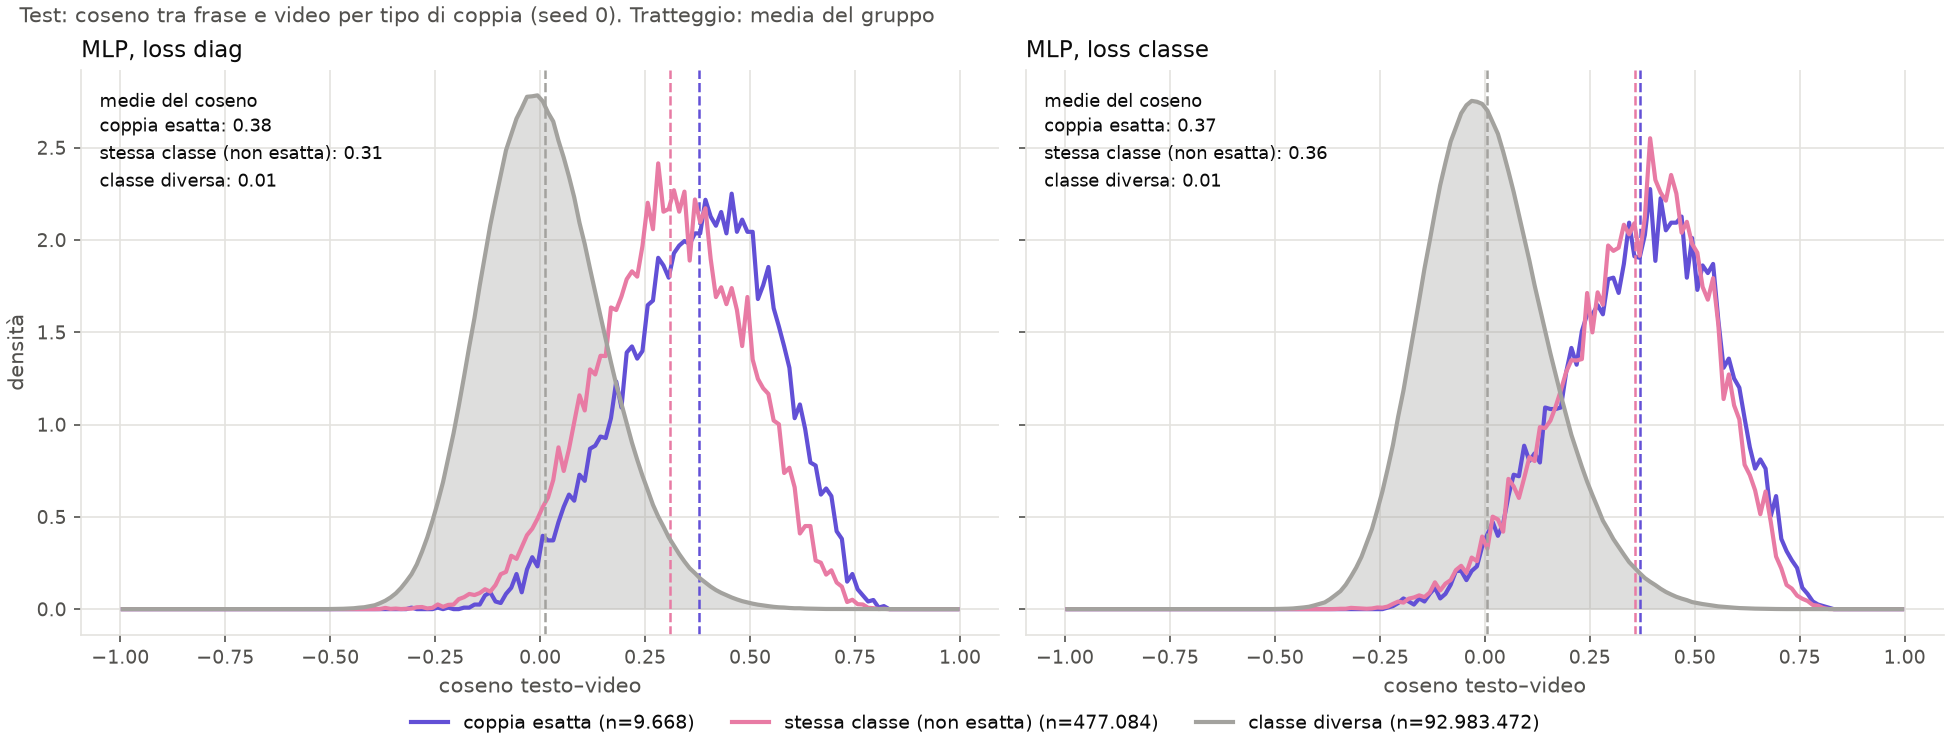
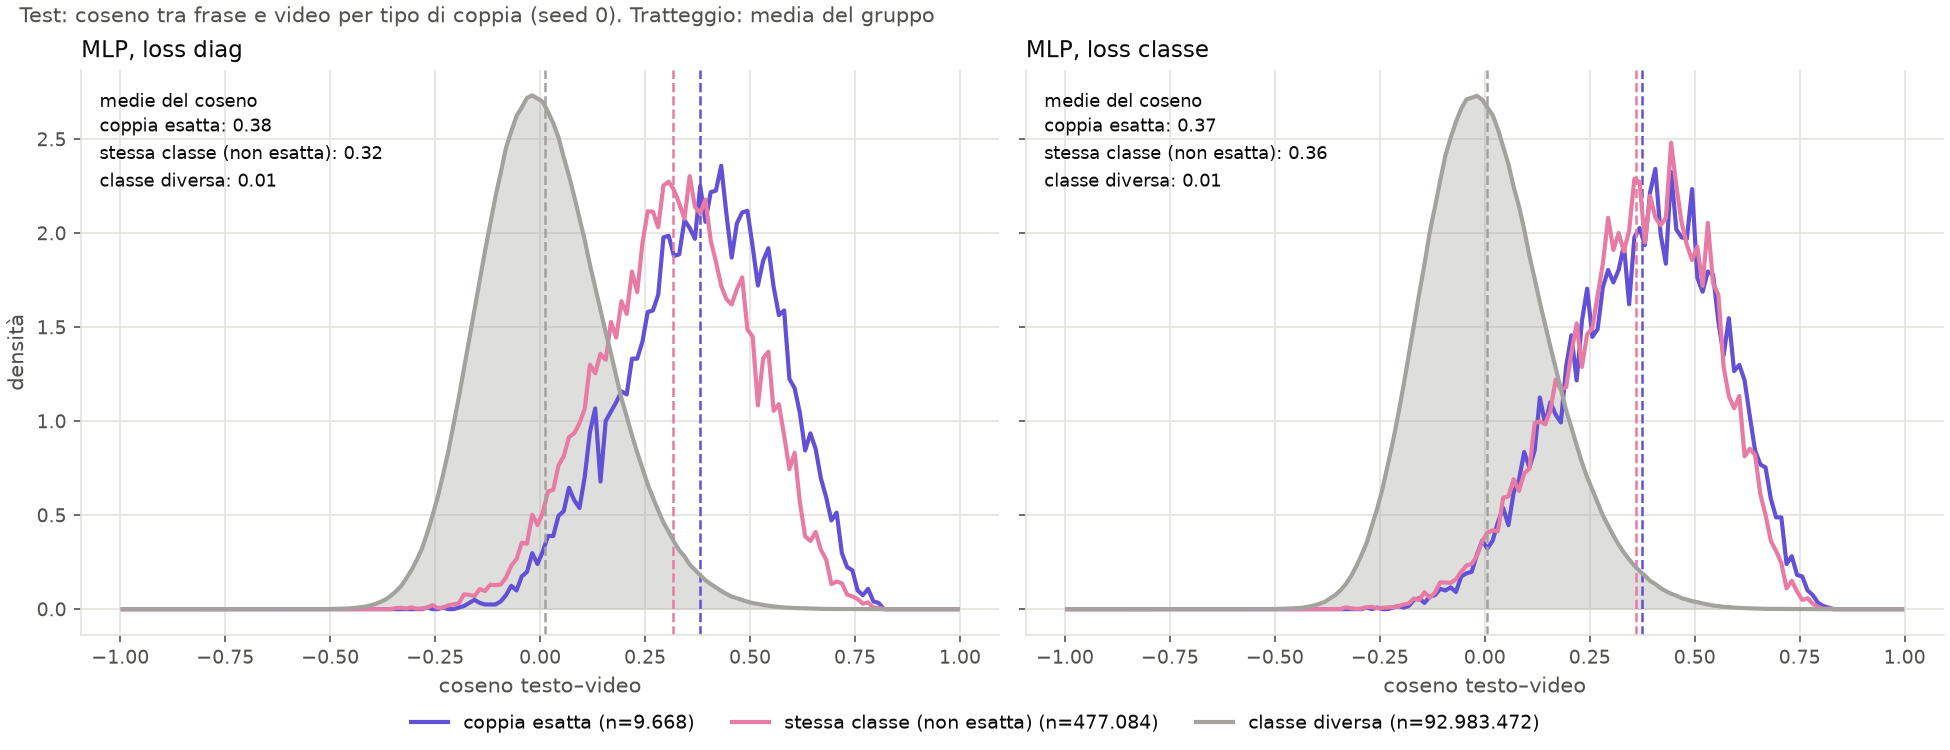
test: plot of some metrics on test set

diff --git a/src/evaluation/p6_figures.py b/src/evaluation/p6_figures.py
@@ -1,61 +1,83 @@
 """Figure della valutazione finale sul test (P6, passo 6 di docs/roadmap_p6_test.md).
 
 Figure solo descrittive: non ne segue nessuna scelta. Seed fissati prima del test (D4):
-MLP seed 0, baseline seed 42 (il primo dei suoi 10).
+MLP seed 0, baseline seed 42 (il primo dei suoi 10). Modelli e colori uguali in tutte le figure:
+baseline casuale ("prima del training"), ridge, MLP diag, MLP classe ("dopo").
 
 1. figures/p6_recall_k.png: curva R@K al variare di K (da 1 a N, asse logaritmico), due pannelli
    (esatto, classe). R@K = % di query con il primo video giusto entro i primi K: a K = 1, 5, 10 la
-   curva vale le R@1/5/10 della tabella. Baseline ("prima del training"), ridge, MLP diag e MLP
-   classe ("dopo"). Legge i ranghi gia' salvati in experiments/final/final_test_ranks.npz.
+   curva vale le R@1/5/10 della tabella. Legge i ranghi salvati in final_test_ranks.npz.
 
-2. figures/p6_coseni.png: distribuzione del coseno testo-video su tutte le coppie del test, in tre
-   gruppi: coppia esatta, stessa classe (stesso verbo e nome, clip diversa: include anche le frasi
-   identiche), classe diversa. Due pannelli, MLP diag e MLP classe. Istogrammi normalizzati
-   (densita'), perche' i gruppi hanno dimensioni molto diverse. Le similarita' non sono salvate
-   (circa 93 milioni per modello): si ricalcolano dai checkpoint con mlp_sim di evaluate_test.py.
+2. figures/p6_risultati.png: la tabella finale come barre. Pannelli esatto e classe; per R@1, R@5
+   e R@10 una barra per modello, con la dev. std sui seed come barra di errore (baseline 10 seed,
+   MLP 3; il ridge non ha seed). Legge final_test.csv.
+
+3. figures/p6_zero_shot.png: R@10 su tutte le query del test e sulle query con combinazione
+   verbo+nome mai vista nel train (D3, metrica zero-shot principale). Pannelli esatto e classe,
+   barre e barre di errore come sopra. Legge final_test.csv (i nomi mai visti, 24 query, restano
+   solo in tabella: troppo pochi per una barra affidabile).
+
+4. figures/p6_matrice_similarita.png: matrice frasi x video "stile CLIP" su 30 clip del test,
+   ordinate per classe (6 classi verbo+nome x 5 clip). Righe = frasi, colonne = i video delle
+   stesse clip nello stesso ordine: la diagonale (bordata) e' la coppia esatta, i quadrati lungo la
+   diagonale le coppie della stessa classe. In ogni cella la probabilita' che la frase scelga quel
+   video tra i 30: softmax della riga dei coseni con tau = 0.07, la tau fissa dei modelli finali,
+   cioe' la stessa distribuzione che la loss InfoNCE ottimizza. Il coseno grezzo non basta: le
+   differenze tra coppia esatta e stessa classe sono piccole in valore assoluto, ma decidono il
+   rango. Due pannelli, MLP diag e MLP classe (seed 0), stessa scala. Mostra il trade-off della
+   loss: diag concentra la probabilita' sulla diagonale, classe la distribuisce nel blocco.
+   Scelta delle clip fissata prima del test e indipendente dai risultati (solo metadati, seed 0):
+   classi con almeno 5 frasi diverse; 6 classi a caso; in ognuna 5 frasi diverse a caso, una
+   clip per frase (frasi diverse: frasi identiche hanno lo stesso embedding e la diagonale non si
+   distinguerebbe dal blocco per costruzione). Le similarita' si ricalcolano dai checkpoint con
+   mlp_sim di evaluate_test.py.
 
 Uso: python src/evaluation/p6_figures.py
 """
+import csv
 import sys
 from pathlib import Path
 
 import numpy as np
+from matplotlib.colors import LinearSegmentedColormap
 
 ROOT = Path(__file__).resolve().parents[2]
 sys.path.insert(0, str(ROOT / "src"))
 # pylint: disable=wrong-import-position
-from evaluation.evaluate_test import ENCODER, OUT_RANKS, load_manifest, mlp_sim  # noqa: E402
-from evaluation.metrics import class_relevance  # noqa: E402
+from evaluation.evaluate_test import (  # noqa: E402
+    ENCODER, OUT as RESULTS, OUT_RANKS, load_manifest, mlp_sim)
 from evaluation.plot_training import GRID, INK, INK_MUTED, plt  # noqa: E402
 from utils.features import load_pair  # noqa: E402
 
 FIG_DIR = ROOT / "figures"
 MLP_SEED, BASELINE_SEED = 0, 42
 KS = (1, 5, 10)
+# matrice di similarita': quante classi, quante clip per classe, seed della scelta
+MATRIX_CLASSES, MATRIX_PER_CLASS, MATRIX_SEED = 6, 5, 0
+TAU = 0.07          # tau fissa dei modelli finali (manifest: fixed_tau), per la softmax di riga
 
-# figura 1: un colore per modello, slot 1-3 della palette di riferimento (validata);
-# la baseline e' un riferimento, quindi grigio tratteggiato
-MODELS = [  # (chiave nel file dei ranghi, etichetta, colore, stile)
-    (f"baseline_s{BASELINE_SEED}", "baseline casuale (prima del training)", INK_MUTED, "--"),
-    ("ridge", "ridge lineare (λ=1000)", "#1baf7a", "-"),
-    (f"mlp_diag_s{MLP_SEED}", "MLP, loss diag", "#eb6834", "-"),
-    (f"mlp_classe_s{MLP_SEED}", "MLP, loss classe (finale)", "#2a78d6", "-"),
+# un colore per modello, slot 1-3 della palette di riferimento (validata);
+# la baseline e' un riferimento, quindi grigio (tratteggiato nelle curve)
+MODELS = [  # (chiave nel file dei ranghi, modello in final_test.csv, etichetta, colore, stile)
+    (f"baseline_s{BASELINE_SEED}", "baseline", "baseline casuale (prima del training)",
+     INK_MUTED, "--"),
+    ("ridge", "ridge", "ridge lineare (λ=1000)", "#1baf7a", "-"),
+    (f"mlp_diag_s{MLP_SEED}", "mlp_diag", "MLP, loss diag", "#eb6834", "-"),
+    (f"mlp_classe_s{MLP_SEED}", "mlp_classe", "MLP, loss classe (finale)", "#2a78d6", "-"),
 ]
-# figura 2: tre gruppi di coppie, tinte diverse da quelle dei modelli della figura 1
-GROUPS = [  # (nome, colore)
-    ("coppia esatta", "#6250d6"),
-    ("stessa classe (non esatta)", "#e87ba4"),
-    ("classe diversa", "#a3a29e"),
-]
-BINS = np.linspace(-1, 1, 161)
+# scala sequenziale blu della palette di riferimento (step 100 -> 700), per la matrice;
+# parte quasi dal bianco: probabilita' ~0 si confonde con lo sfondo
+BLUES = LinearSegmentedColormap.from_list(
+    "blues", ["#f7fafe", "#cde2fb", "#9ec5f4", "#6da7ec", "#3987e5", "#256abf", "#184f95",
+              "#0d366b"])
 
 
-def style(ax, title, xlabel, ylabel):
+def style(ax, title, xlabel, ylabel, grid_axis="both"):
     """Assi e griglia discreti, testo in inchiostro neutro (come plot_training.py)."""
     ax.set_title(title, loc="left", fontsize=11, color=INK)
     ax.set_xlabel(xlabel, color=INK_MUTED)
     ax.set_ylabel(ylabel, color=INK_MUTED)
-    ax.grid(color=GRID, linewidth=0.8)
+    ax.grid(axis=grid_axis, color=GRID, linewidth=0.8)
     ax.set_axisbelow(True)
     for side in ("top", "right"):
         ax.spines[side].set_visible(False)
@@ -76,7 +98,7 @@ def plot_recall_k(data, out):
     for ax, tag in zip(axes, ("esatto", "classe")):
         for k in KS:                                        # i tagli della tabella
             ax.axvline(k, color=GRID, linewidth=1.2, zorder=0)
-        for key, label, color, ls in MODELS:
+        for key, _, label, color, ls in MODELS:
             curve = recall_curve(data[f"{key}_{tag}"])
             k_axis = np.arange(1, len(curve) + 1)
             ax.plot(k_axis, curve, color=color, linestyle=ls, linewidth=2,
@@ -101,64 +123,182 @@ def plot_recall_k(data, out):
     plt.close(fig)
 
 
-def cosine_groups(sim, same_class):
-    """Coseni delle coppie divise nei tre gruppi: esatta, stessa classe non esatta, diversa."""
-    exact = np.eye(len(sim), dtype=bool)
-    return {"coppia esatta": sim[exact],
-            "stessa classe (non esatta)": sim[same_class & ~exact],
-            "classe diversa": sim[~same_class]}
+def read_results(path):
+    """Righe di final_test.csv per modello: {modello: (valori, dev. std o None)}.
+
+    Baseline e MLP: riga "media" e riga "std" sui seed; ridge: la sua unica riga.
+    """
+    with open(path, newline="", encoding="utf-8") as f:
+        rows = list(csv.DictReader(f))
+
+    def numbers(row):
+        return {k: float(v) for k, v in row.items()
+                if k not in ("modello", "seed", "dettagli") and v != ""}
+
+    out = {}
+    for _, model, *_ in MODELS:
+        mine = {r["seed"]: r for r in rows if r["modello"] == model}
+        if "media" in mine:
+            out[model] = (numbers(mine["media"]), numbers(mine["std"]))
+        else:
+            out[model] = (numbers(next(iter(mine.values()))), None)
+    return out
 
 
-def plot_cosines(groups_by_model, out):
-    """Figura 2: densita' del coseno per gruppo di coppie, un pannello per modello."""
-    fig, axes = plt.subplots(1, len(groups_by_model), figsize=(13, 5.0), sharex=True,
-                             sharey=True, constrained_layout=True)
-    for ax, (title, groups) in zip(axes, groups_by_model.items()):
-        means = []
-        for name, color in GROUPS:
-            values = groups[name]
-            density, edges = np.histogram(values, bins=BINS, density=True)
-            centers = (edges[:-1] + edges[1:]) / 2
-            if name == "classe diversa":                    # lo sfondo: area grigia
-                ax.fill_between(centers, density, color=color, alpha=0.35, linewidth=0)
-            n_pairs = f"{len(values):,}".replace(",", ".")
-            ax.plot(centers, density, color=color, linewidth=2, label=f"{name} (n={n_pairs})")
-            ax.axvline(values.mean(), color=color, linewidth=1.2, linestyle="--")
-            means.append(f"{name}: {values.mean():.2f}")
-        # le medie (diverse nei due pannelli) in alto a sinistra, dove non ci sono curve
-        ax.text(0.02, 0.97, "medie del coseno\n" + "\n".join(means), transform=ax.transAxes,
-                va="top", fontsize=8.5, color=INK, linespacing=1.5)
-        style(ax, title, "coseno testo–video", "densità" if ax is axes[0] else "")
-    fig.legend(*axes[0].get_legend_handles_labels(), loc="outside lower center", ncol=3,
+def bar_panel(ax, results, groups, pad):
+    """Barre raggruppate: un gruppo per colonna di groups, una barra per modello.
+
+    groups: [(etichetta del gruppo, colonna di final_test.csv)]. Valore scritto sopra ogni barra,
+    a distanza pad (in unita' dell'asse y) dalla cima della barra di errore.
+    """
+    width = 0.19
+    offsets = (np.arange(len(MODELS)) - (len(MODELS) - 1) / 2) * (width + 0.02)
+    x = np.arange(len(groups))
+    for (_, model, label, color, _), off in zip(MODELS, offsets):
+        values, std = results[model]
+        heights = [values[col] for _, col in groups]
+        errors = [std[col] for _, col in groups] if std else None
+        ax.bar(x + off, heights, width, color=color, label=label, zorder=2)
+        if errors:
+            ax.errorbar(x + off, heights, yerr=errors, fmt="none", ecolor=INK,
+                        elinewidth=1, capsize=3, zorder=3)
+        for xi, h, e in zip(x + off, heights, errors or [0] * len(heights)):
+            ax.text(xi, h + e + pad, f"{h:.1f}", ha="center", va="bottom", fontsize=7.5,
+                    color=INK)
+    ax.set_xticks(x)
+    ax.set_xticklabels([g for g, _ in groups])
+
+
+def plot_bars(results, panels, title, out):
+    """Due pannelli di barre (esatto, classe) con la stessa legenda dei modelli."""
+    fig, axes = plt.subplots(1, len(panels), figsize=(13, 5.0), constrained_layout=True)
+    for ax, (panel_title, groups) in zip(axes, panels):
+        top = max(results[m][0][c] for _, m, *_ in MODELS for _, c in groups)
+        bar_panel(ax, results, groups, pad=top * 0.012)
+        ax.set_ylim(0, top * 1.12)                          # spazio per i valori sopra le barre
+        style(ax, panel_title, "", "%" if ax is axes[0] else "", grid_axis="y")
+    fig.legend(*axes[0].get_legend_handles_labels(), loc="outside lower center", ncol=4,
                fontsize=9, frameon=False, labelcolor=INK)
-    fig.suptitle(f"Test: coseno tra frase e video per tipo di coppia (seed {MLP_SEED}). "
-                 "Tratteggio: media del gruppo", x=0.01, ha="left", fontsize=10, color=INK_MUTED)
+    fig.suptitle(title, x=0.01, ha="left", fontsize=10, color=INK_MUTED)
     fig.savefig(out, dpi=150, facecolor="white")
     plt.close(fig)
 
 
+def select_matrix_clips(meta):
+    """Indici delle clip della matrice, ordinati per classe: dipende solo dai metadati.
+
+    Classi (verbo, nome) con almeno MATRIX_PER_CLASS frasi diverse; MATRIX_CLASSES classi a caso;
+    in ognuna MATRIX_PER_CLASS frasi diverse a caso e, per ogni frase, una clip a caso.
+    """
+    rng = np.random.default_rng(MATRIX_SEED)
+    by_class = {}
+    for i, key in enumerate(zip(meta["verb_class"], meta["noun_class"])):
+        by_class.setdefault(key, {}).setdefault(meta["narration"][i], []).append(i)
+    eligible = sorted(k for k, phrases in by_class.items() if len(phrases) >= MATRIX_PER_CLASS)
+    chosen = rng.choice(len(eligible), MATRIX_CLASSES, replace=False)
+    idx, class_of = [], []
+    for c, j in enumerate(sorted(chosen)):
+        phrases = sorted(by_class[eligible[j]])
+        for p in rng.choice(phrases, MATRIX_PER_CLASS, replace=False):
+            idx.append(int(rng.choice(by_class[eligible[j]][p])))
+            class_of.append(c)
+    return np.array(idx), np.array(class_of)
+
+
+def row_softmax(sim, tau=TAU):
+    """Per ogni frase (riga), probabilita' di scegliere ciascun video: softmax(coseno / tau)."""
+    z = sim / tau
+    z = np.exp(z - z.max(axis=1, keepdims=True))            # stabile: si sottrae il massimo
+    return z / z.sum(axis=1, keepdims=True)
+
+
+def plot_matrix(probs, labels, class_of, out):
+    """Figura 4: probabilita' frase -> video, un pannello per modello, stessa scala."""
+    n = len(labels)
+    vmax = max(p.max() for p in probs.values())
+    fig, axes = plt.subplots(1, len(probs), figsize=(15, 7.6), constrained_layout=True)
+    bounds = np.flatnonzero(np.diff(class_of)) + 0.5        # confini tra classi
+    for ax, (title, prob) in zip(axes, probs.items()):
+        image = ax.imshow(prob, cmap=BLUES, vmin=0, vmax=vmax, interpolation="nearest")
+        for b in bounds:                                    # blocchi delle classi
+            ax.axhline(b, color="white", linewidth=2)
+            ax.axvline(b, color="white", linewidth=2)
+        for i in range(n):                                  # coppia esatta: cella bordata
+            ax.add_patch(plt.Rectangle((i - 0.5, i - 0.5), 1, 1, fill=False,
+                                       edgecolor=INK_MUTED, linewidth=0.8, zorder=3))
+        ax.set_yticks(range(n))
+        ax.set_yticklabels(labels if ax is axes[0] else [], fontsize=7.5, color=INK)
+        ax.set_xticks(range(n))
+        ax.set_xticklabels([str(i + 1) for i in range(n)], fontsize=6.5, color=INK_MUTED)
+        ax.tick_params(length=0)
+        for side in ax.spines.values():
+            side.set_visible(False)
+        ax.set_title(title, loc="left", fontsize=11, color=INK)
+        ax.set_xlabel("video delle stesse clip, stesso ordine delle frasi", color=INK_MUTED)
+    fig.colorbar(image, ax=axes, shrink=0.6,
+                 label=f"probabilità che la frase scelga il video (softmax della riga, τ={TAU})")
+    fig.suptitle(f"Test: per ogni frase, quale video sceglie tra {n} clip ({MATRIX_CLASSES} "
+                 f"classi verbo+nome × {MATRIX_PER_CLASS}, seed {MLP_SEED}). Cella bordata = "
+                 "coppia esatta, quadrati bianchi = stessa classe",
+                 x=0.01, ha="left", fontsize=10, color=INK_MUTED)
+    fig.savefig(out, dpi=150, facecolor="white")
+    plt.close(fig)
+
+
+def matrix_summary(prob, class_of):
+    """Probabilita' media per frase: sul video esatto, sul resto della classe, fuori classe."""
+    exact = np.eye(len(prob), dtype=bool)
+    same = class_of[:, None] == class_of[None, :]
+    return {"video esatto": prob[exact].mean(),
+            "altri video della classe": (prob * (same & ~exact)).sum(axis=1).mean(),
+            "video di altre classi": (prob * ~same).sum(axis=1).mean()}
+
+
 def main():
-    """Disegna le due figure e stampa i numeri che le riassumono."""
+    """Disegna le figure e stampa i numeri che le riassumono."""
     FIG_DIR.mkdir(parents=True, exist_ok=True)
     data = np.load(OUT_RANKS)
+    n_query = len(data["narration_id"])
+    n_new = int(data["mask_combinazione_nuova"].sum())
+
     plot_recall_k(data, FIG_DIR / "p6_recall_k.png")
     print(f"salvato: {FIG_DIR / 'p6_recall_k.png'}")
 
+    results = read_results(RESULTS["test"])
+    plot_bars(results,
+              [(f"giusto = {tag}", [(f"R@{k}", f"{tag}_R@{k}") for k in KS])
+               for tag in ("esatto", "classe")],
+              f"Test ({n_query} query): R@1/5/10 testo → video. Barre di errore: dev. std sui "
+              "seed (baseline 10, MLP 3)", FIG_DIR / "p6_risultati.png")
+    print(f"salvato: {FIG_DIR / 'p6_risultati.png'}")
+
+    plot_bars(results,
+              [(f"R@10, giusto = {tag}", [(f"tutte le query\n(n={n_query})", f"{tag}_R@10"),
+                                         (f"combinazione mai vista\n(n={n_new})",
+                                          f"nuove_{tag}_R@10")])
+               for tag in ("esatto", "classe")],
+              "Test, zero-shot: R@10 su tutte le query e su quelle con combinazione verbo+nome "
+              "assente dal train", FIG_DIR / "p6_zero_shot.png")
+    print(f"salvato: {FIG_DIR / 'p6_zero_shot.png'}")
+
     video, text, meta = load_pair(ENCODER, "test", normalize=False)
-    same_class = class_relevance(meta["verb_class"], meta["noun_class"])
-    groups_by_model = {}
+    idx, class_of = select_matrix_clips(meta)
+    sims = {}
     for m in load_manifest():                               # verifica anche gli sha256
-        if m["seed"] != MLP_SEED:
-            continue
-        groups = cosine_groups(mlp_sim(m, video, text), same_class)
-        groups_by_model[f"MLP, loss {m['positives']}"] = groups
-        print(f"\nMLP {m['positives']} (seed {m['seed']}): coseno per gruppo")
-        for name, values in groups.items():
-            print(f"  {name:28} media {values.mean():6.3f}  mediana {np.median(values):6.3f}  "
-                  f"dev. std {values.std():5.3f}  n {len(values):>11,}")
-    order = ["MLP, loss diag", "MLP, loss classe"]
-    plot_cosines({k: groups_by_model[k] for k in order}, FIG_DIR / "p6_coseni.png")
-    print(f"\nsalvato: {FIG_DIR / 'p6_coseni.png'}")
+        if m["seed"] == MLP_SEED:
+            sims[m["positives"]] = mlp_sim(m, video[idx], text[idx])
+    probs = {"MLP, loss diag": row_softmax(sims["diag"]),
+             "MLP, loss classe (finale)": row_softmax(sims["classe"])}
+    labels = [str(meta["narration"][i]) for i in idx]
+    plot_matrix(probs, labels, class_of, FIG_DIR / "p6_matrice_similarita.png")
+    print("\nclip della matrice, una riga per classe:")
+    for c in range(MATRIX_CLASSES):
+        print(f"  {c + 1}. " + " | ".join(np.array(labels)[class_of == c]))
+    print("probabilita' media per frase:")
+    for title, prob in probs.items():
+        summary = matrix_summary(prob, class_of)
+        print(f"  {title}: " + ", ".join(f"{k} {v:.0%}" for k, v in summary.items()))
+    print(f"salvato: {FIG_DIR / 'p6_matrice_similarita.png'}")
 
 
 if __name__ == "__main__":
